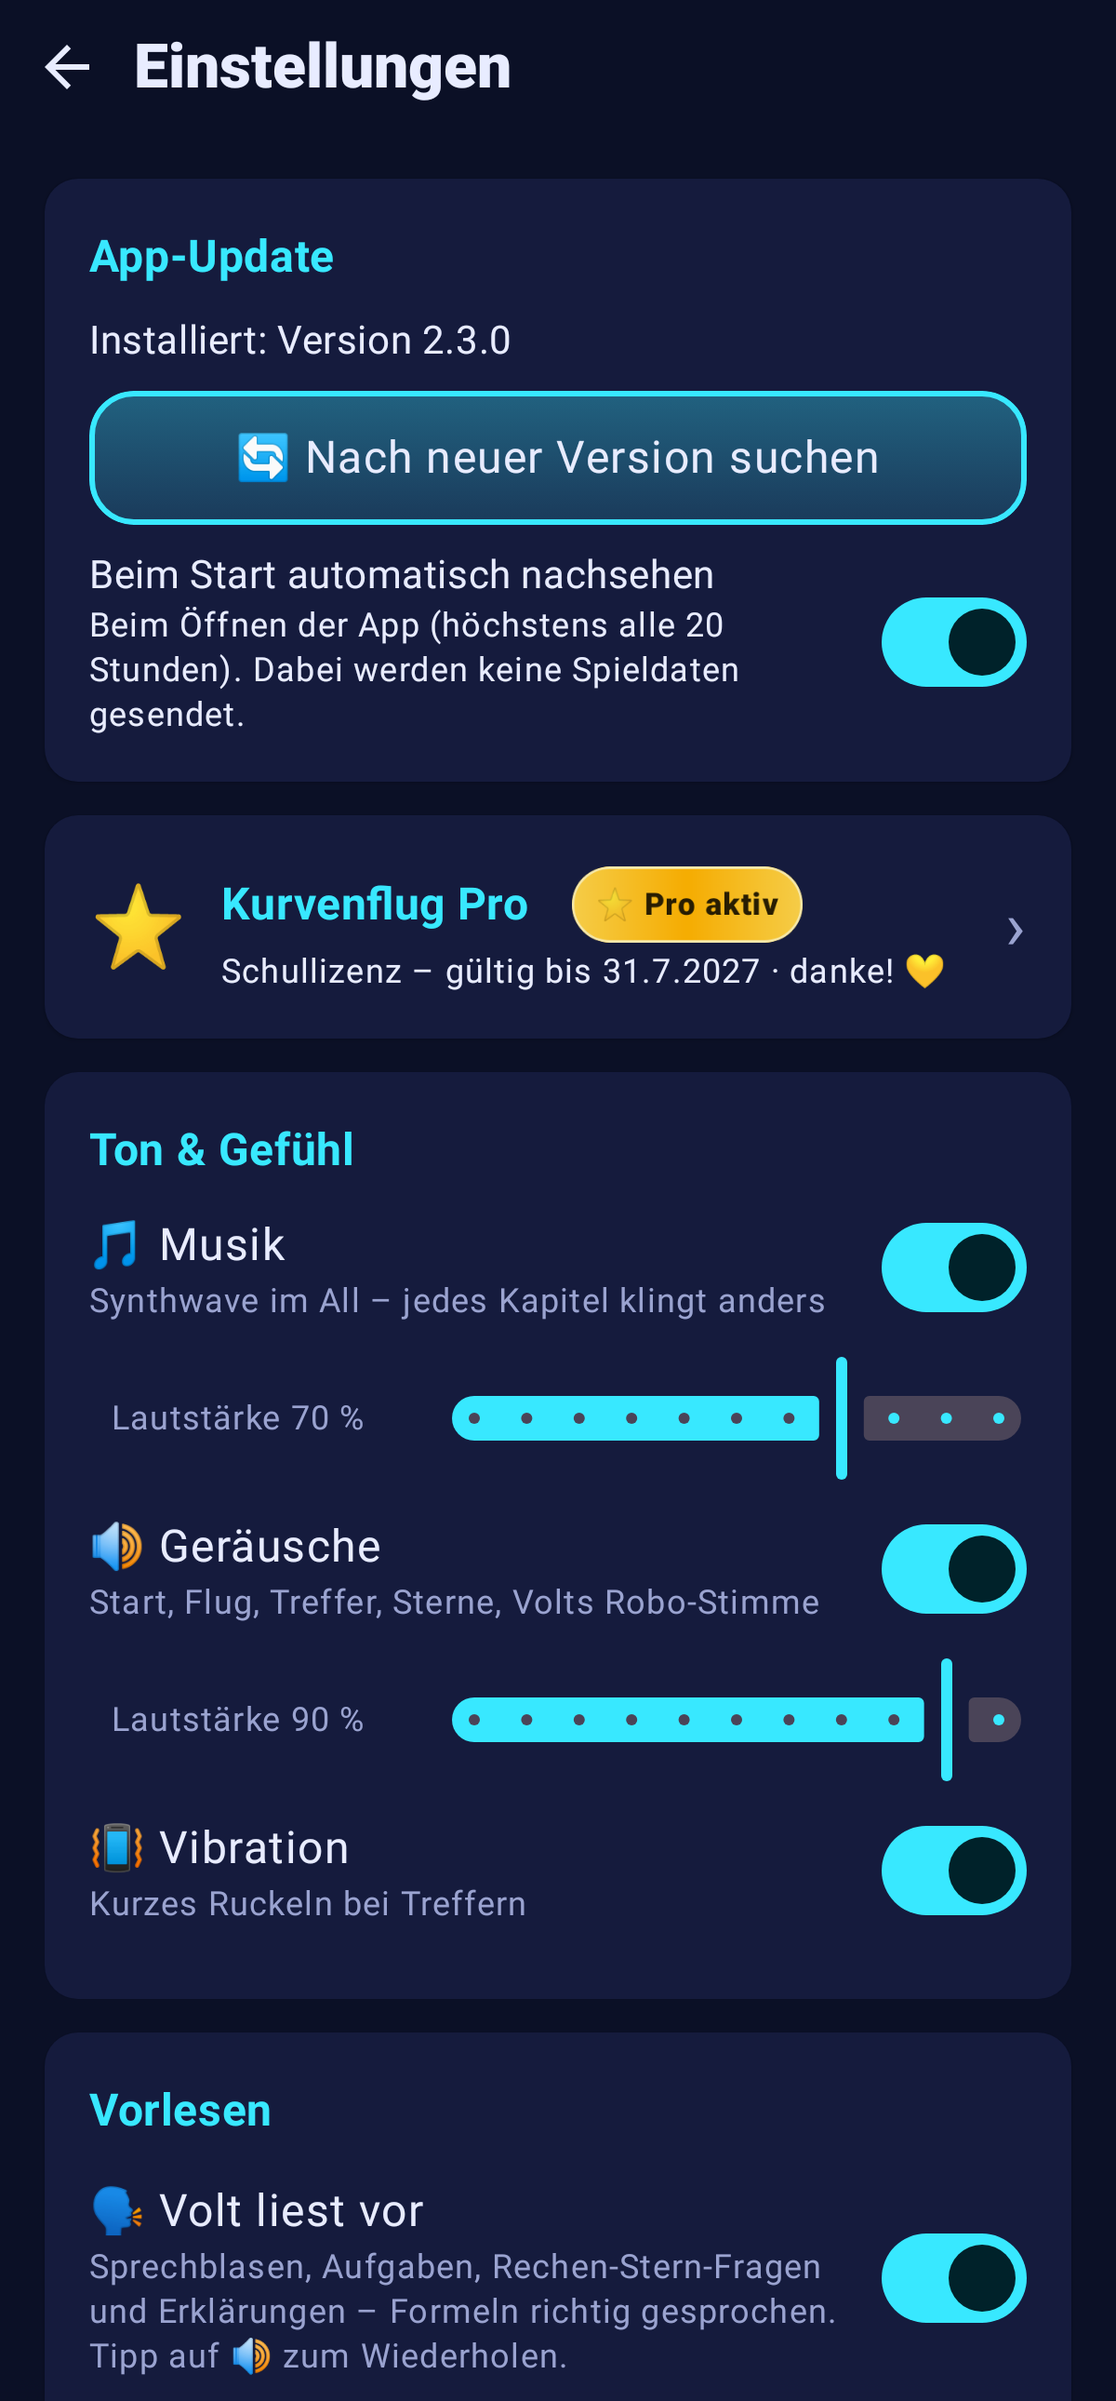
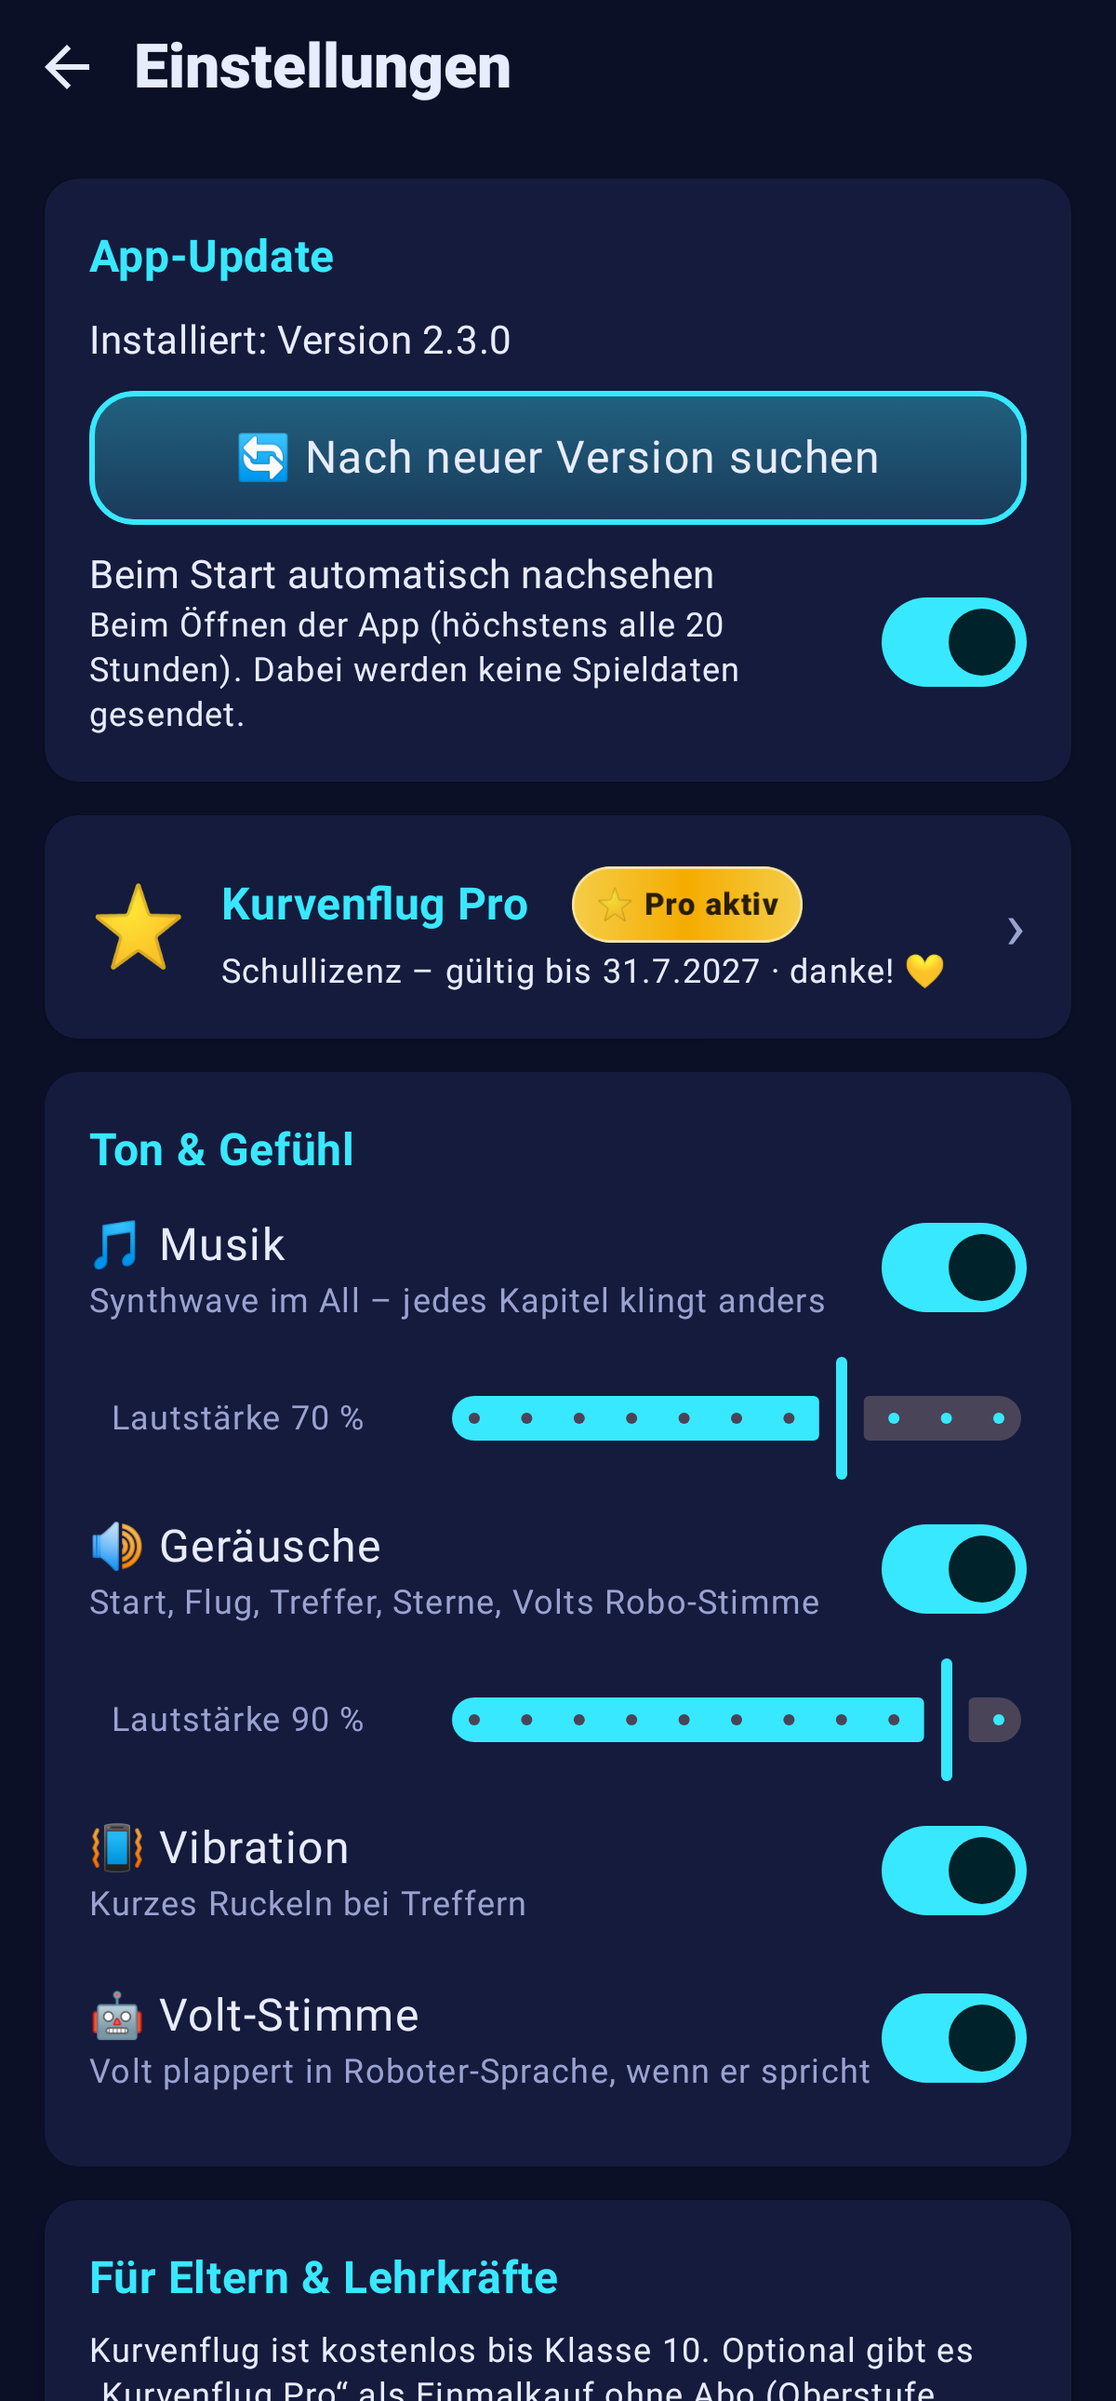
Kurvenflug 2.5.11: Vorlesen per Schalter abgeschaltet, Musik und Klänge bleiben
- Nova.ENABLED = false: kein Reader, keine Vorlese-Knöpfe/-Einstellungen, keine Abrufe an den Stimmen-Server
- vorlesen/texte.json als leere Liste
- Eltern-, Lizenz- und Store-Texte ohne Vorlesen; Volt-Stimme wieder sichtbar

Claude-Session: https://claude.ai/code/session_015vg1TniCB6sLGd2dNSJdge

diff --git a/kurvenflug/shared/src/commonMain/kotlin/de/kurvenflug/app/ui/settings/SettingsScreen.kt b/kurvenflug/shared/src/commonMain/kotlin/de/kurvenflug/app/ui/settings/SettingsScreen.kt
@@ -40,6 +40,8 @@ fun SettingsScreen(
     onPro: (() -> Unit)? = null,
     voltVoice: Boolean = true, onVoltVoice: (Boolean) -> Unit = {},
     readAloud: Boolean = true, onReadAloud: (Boolean) -> Unit = {},
+    /** Vorlesen überhaupt angeboten ([de.kurvenflug.core.model.Nova.ENABLED]; Bildschirmfoto-Test kann es einschalten) */
+    readAloudAvailable: Boolean = de.kurvenflug.core.model.Nova.ENABLED,
     readSpeed: Int = 100, onReadSpeed: (Int) -> Unit = {},
     offlineBest: Boolean = false, onOfflineBest: (Boolean) -> Unit = {},
 ) {
@@ -63,22 +65,26 @@ fun SettingsScreen(
                     Toggle("🔊 Geräusche", "Start, Flug, Treffer, Sterne, Volts Robo-Stimme", sound, onSound)
                     if (sound) Volume("Lautstärke", sfxVolume, onSfxVolume)
                     Toggle("📳 Vibration", "Kurzes Ruckeln bei Treffern", vibration, onVibration)
-                    if (!readAloud) Toggle("🤖 Volt-Stimme", "Volt plappert in Roboter-Sprache, wenn er spricht", voltVoice, onVoltVoice)
+                    if (!readAloud || !readAloudAvailable) Toggle("🤖 Volt-Stimme", "Volt plappert in Roboter-Sprache, wenn er spricht", voltVoice, onVoltVoice)
                 }
             }
-            ReadAloudCard(readAloud, onReadAloud, readSpeed, onReadSpeed, offlineBest, onOfflineBest)
+            if (readAloudAvailable) ReadAloudCard(readAloud, onReadAloud, readSpeed, onReadSpeed, offlineBest, onOfflineBest)
             ElevatedCard(Modifier.fillMaxWidth()) {
                 Column(Modifier.padding(16.dp), verticalArrangement = Arrangement.spacedBy(6.dp)) {
                     Text("Für Eltern & Lehrkräfte", style = MaterialTheme.typography.titleMedium, color = MaterialTheme.colorScheme.primary)
                     val shop = de.kurvenflug.app.LocalPro.current.locking
                     if (shop) Text("Kurvenflug ist kostenlos bis Klasse 10. Optional gibt es „Kurvenflug Pro“ als Einmalkauf ohne Abo " +
                         "(Oberstufe, Extrem-Stufen, mehr Spieler). Kaufen kann man nur nach einer Frage für Erwachsene.", style = MaterialTheme.typography.bodySmall)
+                    val nova = readAloudAvailable
                     Text(if (platform.isWeb) "Kurvenflug speichert den Spielstand nur hier in diesem Browser. Keine Anmeldung, keine Werbung, " +
-                        "keine Spieldaten an einen Server. Nur das Vorlesen (Nova, abschaltbar) lädt Audiodateien von unserem Server. Neue Versionen lädt die Seite von selbst."
+                        "keine Spieldaten an einen Server." + (if (nova) " Nur das Vorlesen (Nova, abschaltbar) lädt Audiodateien von unserem Server." else "") +
+                        " Neue Versionen lädt die Seite von selbst."
                         else if (!platform.selfUpdate) "Kurvenflug speichert nur den Spielstand auf diesem Gerät. Keine Anmeldung, keine Werbung. " +
-                        "Ins Internet geht die App nur für die Vorlese-Stimme Nova (abschaltbar). Neue Versionen kommen über Google Play."
+                        (if (nova) "Ins Internet geht die App nur für die Vorlese-Stimme Nova (abschaltbar). " else "Es gehen keine Spieldaten ins Internet. ") +
+                        "Neue Versionen kommen über Google Play."
                         else "Kurvenflug speichert nur den Spielstand auf diesem Gerät. Keine Anmeldung, keine Werbung. " +
-                        "Ins Internet geht die App nur, um nach Updates zu schauen und für die Vorlese-Stimme Nova (beides abschaltbar).", style = MaterialTheme.typography.bodySmall)
+                        (if (nova) "Ins Internet geht die App nur, um nach Updates zu schauen und für die Vorlese-Stimme Nova (beides abschaltbar)."
+                        else "Ins Internet geht die App nur, um nach Updates zu schauen (abschaltbar)."), style = MaterialTheme.typography.bodySmall)
                     Text("Inhalte: Koordinaten, Brüche und Kommazahlen, Winkel, Maßstab (Kl. 5/6), Zuordnungen, Prozent und Zinseszins (Kl. 6–8), " +
                         "lineare Funktionen und Gleichungssysteme (Kl. 7/8), Pythagoras (Kl. 8/9), quadratische Funktionen und Nullstellen (Kl. 9), " +
                         "Trigonometrie, Potenzfunktionen, Sinus, Exponential- und Logarithmusfunktionen (Kl. 9/10); Oberstufe: Ableitung, Extrempunkte, " +
@@ -212,13 +218,13 @@ private fun LicenseCard(web: Boolean) {
     }
 }
 
-private const val LICENSES = "Kurvenflug nutzt freie Software. Danke an alle, die sie bauen!\n\n" +
+private val LICENSES = "Kurvenflug nutzt freie Software. Danke an alle, die sie bauen!\n\n" +
     "Apache License 2.0 (apache.org/licenses/LICENSE-2.0): Kotlin, kotlinx.coroutines, kotlinx.serialization, " +
     "Jetpack Compose und Compose Multiplatform, AndroidX (Activity, Core, Lifecycle, Navigation, Room, Glance, WorkManager, " +
     "Fragment, SavedState, Startup, DataStore), Guava, JSpecify, JetBrains Annotations.\n\n" +
     "Nur in der Google-Play-Version: Play In-App Updates und Play Billing (Nutzungsbedingungen von Google), " +
-    "Google Data Transport, Firebase Encoders und javax.inject (Apache License 2.0).\n\n" +
-    "Vorlese-Stimme Nova: KI-generierte Audiodateien (OpenAI), erzeugt auf unserem Server."
+    "Google Data Transport, Firebase Encoders und javax.inject (Apache License 2.0)." +
+    (if (de.kurvenflug.core.model.Nova.ENABLED) "\n\nVorlese-Stimme Nova: KI-generierte Audiodateien (OpenAI), erzeugt auf unserem Server." else "")
 
 private const val LICENSES_WEB = "\n\nIm Browser zusätzlich: Skia/Skiko (BSD-3-Clause), Noto Color Emoji (SIL Open Font License 1.1), " +
     "DejaVu Sans (freie Bitstream-Vera-Lizenz). Volltexte in fonts-lizenzen.txt."

diff --git a/kurvenflug/core/model/src/jvmMain/kotlin/de/kurvenflug/core/model/VorlesenListe.kt b/kurvenflug/core/model/src/jvmMain/kotlin/de/kurvenflug/core/model/VorlesenListe.kt
@@ -45,6 +45,9 @@ object VorlesenListe {
         return VoltLines.runtime(today).map { Nova.normalize(Speech.clean(it)) }.filter { it.isNotBlank() && it.any(Char::isLetter) && it !in have }.distinct()
     }
 
+    /** Liste, solange das Vorlesen abgeschaltet ist ([Nova.ENABLED]) */
+    const val EMPTY = "{\"format\":1,\"app\":\"kurvenflug\",\"texte\":[]}\n"
+
     fun json(texts: List<String>, runtime: List<String> = emptyList()): String {
         fun esc(s: String) = buildString { s.forEach { c -> when (c) { '"' -> append("\\\""); '\\' -> append("\\\\"); '\n' -> append("\\n"); else -> if (c < ' ') append("\\u%04x".format(c.code)) else append(c) } } }
         val all = texts.map { "  {\"text\": \"${esc(it)}\", \"sprache\": \"de\"}" } + runtime.map { "  {\"text\": \"${esc(it)}\", \"sprache\": \"de\", \"laufzeit\": true}" }
@@ -54,6 +57,9 @@ object VorlesenListe {
 
 fun main(args: Array<String>) {
     val out = File(args[0])
+    if (!Nova.ENABLED) {   // Vorlesen abgeschaltet: leere Liste, damit das Stimmen-Werk nichts vertont
+        out.parentFile.mkdirs(); out.writeText(VorlesenListe.EMPTY); println("vorlesen/texte.json: Vorlesen abgeschaltet – leere Liste"); return
+    }
     val texts = VorlesenListe.texts(args.drop(1).map(::File))
     texts.forEach { t ->
         check(Normalizer.isNormalized(t, Normalizer.Form.NFC)) { "Text nicht NFC: $t" }

diff --git a/kurvenflug/app/src/main/java/de/kurvenflug/app/MainActivity.kt b/kurvenflug/app/src/main/java/de/kurvenflug/app/MainActivity.kt
@@ -52,7 +52,7 @@ class MainActivity : ComponentActivity() {
         if (savedInstanceState == null) { readShared(intent); readWidget(intent); readProLink(intent) }
         (application as KurvenflugApp).music.prepare(MusicMood.MENU, MusicMood.FLIGHT)
         storeUpdates // registriert sich vor onStart
-        val platform = AndroidPlatform(this, BuildConfig.VERSION_NAME, BuildConfig.SELF_UPDATE, app.sfx, app.music, proShop, app.reader)
+        val platform = AndroidPlatform(this, BuildConfig.VERSION_NAME, BuildConfig.SELF_UPDATE, app.sfx, app.music, proShop, if (de.kurvenflug.core.model.Nova.ENABLED) app.reader else null)
         setContent { KurvenflugRoot(vm.state, platform, incomingDuel, widgetLevel) }
     }
 
@@ -63,5 +63,5 @@ class MainActivity : ComponentActivity() {
         vm.checkForUpdateIfDue(BuildConfig.VERSION_NAME)
         storeUpdates.onStart()
     }
-    override fun onStop() { storeUpdates.onStop(); (application as KurvenflugApp).reader.stop(); (application as KurvenflugApp).music.onForeground(false); super.onStop() }
+    override fun onStop() { storeUpdates.onStop(); if (de.kurvenflug.core.model.Nova.ENABLED) (application as KurvenflugApp).reader.stop(); (application as KurvenflugApp).music.onForeground(false); super.onStop() }
 }

diff --git a/kurvenflug/core/model/src/commonMain/kotlin/de/kurvenflug/core/model/Nova.kt b/kurvenflug/core/model/src/commonMain/kotlin/de/kurvenflug/core/model/Nova.kt
@@ -6,6 +6,12 @@ package de.kurvenflug.core.model
  * Dateiname: SHA-256 von "nova|" + Sprache + "|" + Text (normalisiert), Hex, erste 32 Zeichen; Ordner = die ersten 2 Zeichen.
  */
 object Nova {
+    /**
+     * Vorlesen überhaupt angeboten? Vorgabe Marcel 18.11.: vorerst aus (nur der Wissensgarten liest vor) – der Code bleibt,
+     * zum Wiedereinschalten genügt `true`. Bei `false`: keine Vorlese-Knöpfe, keine Einstellungen dazu, keine Abrufe an den
+     * Stimmen-Server, keine Gerätestimme; vorlesen/texte.json ist eine leere Liste.
+     */
+    const val ENABLED = false
     const val HOST = "stimmen.mathenachhilfe-online.com"
     const val BASE = "https://$HOST/nova/"
     const val LABEL = "Nova – KI-generierte Stimme"

diff --git a/kurvenflug/app/src/test/java/de/kurvenflug/app/ui/ScreenshotTest.kt b/kurvenflug/app/src/test/java/de/kurvenflug/app/ui/ScreenshotTest.kt
@@ -439,7 +439,7 @@ class ScreenshotTest {
     @Test fun readAloudSettings() = shot("99_vorlesen", 1500, prepare = { it.onNodeWithText("Offline-Stimme löschen", substring = true).performScrollTo() }) {
         androidx.compose.runtime.CompositionLocalProvider(de.kurvenflug.app.ui.fx.LocalReader provides FakeReader, de.kurvenflug.app.ui.fx.LocalReadAloud provides true) {
             SettingsScreen(sound = true, onSound = {}, vibration = true, onVibration = {}, autoUpdate = true, onAutoUpdate = {}, installed = "2.5.0",
-                update = UpdateState.Idle, onBack = {}, readAloud = true)
+                update = UpdateState.Idle, onBack = {}, readAloud = true, readAloudAvailable = true)
         }
     }
 

diff --git a/kurvenflug/shared/src/wasmJsMain/kotlin/de/kurvenflug/app/Platform.wasm.kt b/kurvenflug/shared/src/wasmJsMain/kotlin/de/kurvenflug/app/Platform.wasm.kt
@@ -61,7 +61,7 @@ object WebPlatform : Platform {
     override val isWeb = true
     override val selfUpdate = false
     override val sfx: Sfx = WebSfx
-    override val reader: de.kurvenflug.app.ui.fx.Reader = de.kurvenflug.app.ui.fx.WebReader
+    override val reader: de.kurvenflug.app.ui.fx.Reader? get() = if (de.kurvenflug.core.model.Nova.ENABLED) de.kurvenflug.app.ui.fx.WebReader else null
     override fun onHome(home: Boolean) { runCatching { jsAtHome(home) } }
     override fun shareText(text: String, title: String) = jsShare(text, title)
     override fun openUrl(url: String) = jsOpen(url)

diff --git a/kurvenflug/shared/src/commonMain/kotlin/de/kurvenflug/app/Root.kt b/kurvenflug/shared/src/commonMain/kotlin/de/kurvenflug/app/Root.kt
@@ -114,7 +114,7 @@ fun KurvenflugRoot(
     }
     // Vorlesen: Stimme und Tempo übernehmen; solange Volt spricht, wird die Musik leiser
     val readAloud by vm.settings.readAloud.collectAsStateWithLifecycle()
-    val reader = platform.reader
+    val reader = platform.reader.takeIf { de.kurvenflug.core.model.Nova.ENABLED }   // Vorlesen vorerst aus (Marcel 18.11.)
     LaunchedEffect(readAloud) { if (!readAloud) reader?.stop() }
     val readSpeed by vm.settings.readSpeed.collectAsStateWithLifecycle()
     LaunchedEffect(readSpeed) { reader?.setSpeed(readSpeed / 100f) }

diff --git a/kurvenflug/MELDUNG_AN_LEITSTAND.md b/kurvenflug/MELDUNG_AN_LEITSTAND.md
@@ -1,5 +1,17 @@
 # Meldungen an den Leitstand – Kurvenflug WebApp
 
+## ✅ 2.5.11 – Vorlesen abgeschaltet, Musik und Klänge bleiben (Marcel 18.11.) · Web = APK = Play
+1. **Ein Schalter, Code bleibt:** `Nova.ENABLED = false` (`core/model/Nova.kt`). Dann gibt es keinen Reader (Android und Web):
+   keine 🔊-Knöpfe (Volt-Blasen, Theorie, Aufgaben), keine Karte „Vorlesen“ (Sprechtempo, Probe, „Alle Nova-Texte offline
+   laden“), kein Hinweis „Nova nicht erreichbar“. Eltern-Text, Lizenzen und Store-Texte erwähnen das Vorlesen nicht mehr.
+   **Browser-Test:** Start und mehrere Klicks: **0 Anfragen an stimmen.mathenachhilfe-online.com bzw. /jetzt, 0 × Gerätestimme.**
+   Zum Wiedereinschalten genügt `true` (Tests und Bildschirmfotos für das Vorlesen laufen weiter mit eingeschaltetem Reader).
+2. **vorlesen/texte.json** = `{"format":1,"app":"kurvenflug","texte":[]}` (Web unter vorlesen/texte.json, APK als Asset).
+3. **Musik und Klänge:** Musik startet auf Android sofort; im Browser bei der ersten Berührung (der Browser erlaubt Ton erst
+   danach). Klänge bei Start, Treffer, Fehlschuss, Stern, Level geschafft, dazu die Erkennungsmelodie. In den Einstellungen sind
+   „🎵 Musik“ und „🔊 Geräusche“ getrennt (je mit Lautstärke); Volts Roboter-Plappern („🤖 Volt-Stimme“) ist wieder da und abschaltbar.
+4. versionCode 58, Prüfkette grün (Unit-Tests, Lint, APK, AAB, WebApp).
+
 ## ✅ 2.5.10 – fertig für den Betriebstest: WebApp aktualisiert sich selbst + Theorie im Rechen-Stern · Web = APK = Play
 **WebApp immer auf dem neuesten Stand (Leitstand 18.11.):**
 - Prüft auf neue Versionen beim Öffnen, bei Rückkehr in den Tab (visibilitychange/focus/pageshow) und alle 30 min:

diff --git a/kurvenflug/store/PLAY_CONSOLE_ANLEITUNG.md b/kurvenflug/store/PLAY_CONSOLE_ANLEITUNG.md
@@ -64,6 +64,7 @@ keine Standortfreigabe, keine digitalen Käufe. Erwartet: **USK ab 0 / PEGI 3**.
 **Nachrichten-Apps / Behördliche Apps / Finanz / Gesundheit / COVID:** jeweils **Nein**.
 
 **Datensicherheit:**
+> Stand 18.11.: Vorlesen abgeschaltet – der Nova-Teil in Klammern entfällt, solange `Nova.ENABLED = false`.
 1. „Erhebt oder teilt deine App erforderliche Arten von Nutzerdaten?“ → **Nein**.
    (Spielstand und Einstellungen bleiben auf dem Gerät. Die Internet-Berechtigung dient nur der Vorlese-Stimme Nova
    (abschaltbar): Die App lädt fertige Ansagen von stimmen.mathenachhilfe-online.com; Texte, die erst in der Aufgabe
@@ -109,6 +110,10 @@ Solange das Produkt nicht angelegt ist, bleibt in der App alles frei. Ab dem Anl
    (den Kauf wickelt Google ab, die App speichert nur „Pro: ja“). Store-Eintrag zeigt „In-App-Käufe“ automatisch.
 
 ## 6b. Neue Version hochladen – Klick-Liste (bereit: **2.4.2, versionCode 46**)
+> **Stand 18.11. (2.5.11): Vorlesen ist abgeschaltet** (Vorgabe Marcel, nur der Wissensgarten liest vor). Solange gilt:
+> Punkte 4–7 unten und der Nova-Teil der Datensicherheit entfallen – die App lädt nichts von stimmen.mathenachhilfe-online.com,
+> keine KI-Kennzeichnung nötig. Wird das Vorlesen wieder eingeschaltet (`Nova.ENABLED`), gelten die Punkte wieder.
+
 1. AAB holen: GitHub → Releases → `kurvenflug-v2.4.2` → **Kurvenflug-2.4.2-play.aab** (ca. 6,5 MB; später jeweils die neueste Version).
 2. Play Console → Testen → (interner bzw. geschlossener) Test → **Neuen Release erstellen** → AAB hochladen.
 3. Versionshinweise (de-DE): Text aus `store/de-DE/release-notes.txt` einfügen (unter 500 Zeichen).

diff --git a/kurvenflug/README.md b/kurvenflug/README.md
@@ -104,6 +104,9 @@ Live-Rechnung beim Schieben, Rechen-Stern nach dem Treffer, danach der Lösungsw
 | ![Live](screenshots/72_live_rechnung.png) | ![Frage](screenshots/73_rechenstern_frage.png) | ![Richtig](screenshots/74_rechenstern_geschafft.png) | ![Aufgabe](screenshots/76_aufgabe_nach_fehlversuch.png) |
 
 ## Vorlesen mit Nova (`core/model/Speech.kt`, `Nova.kt`, `ReadTexts.kt`, `shared/ui/fx/Reader.kt`)
+
+> **Zurzeit abgeschaltet** (Marcel 18.11.: Vorlesen nur im Wissensgarten). Schalter `Nova.ENABLED` in `core/model/Nova.kt`;
+> bei `false` keine Vorlese-Knöpfe/-Einstellungen, keine Abrufe an den Stimmen-Server, keine Gerätestimme, `vorlesen/texte.json` leer.
 Volt liest Sprechblasen, Aufgaben, Rechen-Stern-Fragen und Erklärungen vor (abschaltbar, Probe-Taste). Stimme ist immer
 **„Nova – KI-generierte Stimme“** (OpenAI, Vorgabe Marcel; Tempo 1,25 legt der Server fest). Formeln und Einheiten werden in Worte
 übersetzt (`Speech.clean`: „x² − 2x“ → „x hoch 2 minus 2x“, „3 m/s“ → „3 Meter pro Sekunde“).

diff --git a/kurvenflug/CHANGELOG.md b/kurvenflug/CHANGELOG.md
@@ -3,6 +3,12 @@
 Kurz und verständlich für Schüler und Eltern. Der Abschnitt der aktuellen Version erscheint automatisch
 im GitHub-Release und in der App unter „App-Update“.
 
+## 2.5.11 – Musik und Klänge, Vorlesen pausiert
+- Das Vorlesen macht vorerst Pause. Kurvenflug setzt ganz auf Musik und Klänge: eigene Musik je Kapitel, Töne bei Start,
+  Treffer, Fehlschuss, Stern und geschafftem Level. „Musik“ und „Geräusche“ lassen sich in den Einstellungen getrennt
+  abschalten. Volt plappert wieder in seiner Roboter-Sprache (abschaltbar).
+- Die App lädt dadurch nichts mehr von einem Stimmen-Server.
+
 ## 2.5.10 – Theorie im Rechen-Stern, WebApp immer aktuell
 - Im Rechen-Stern gibt es jetzt den Knopf „📖 Theorie nachlesen“. Wer bei einer Frage hängt (oder sie einfach verstehen
   will), liest dort die passende Erklärung mit Formel und Beispiel nach und rechnet dann weiter.
